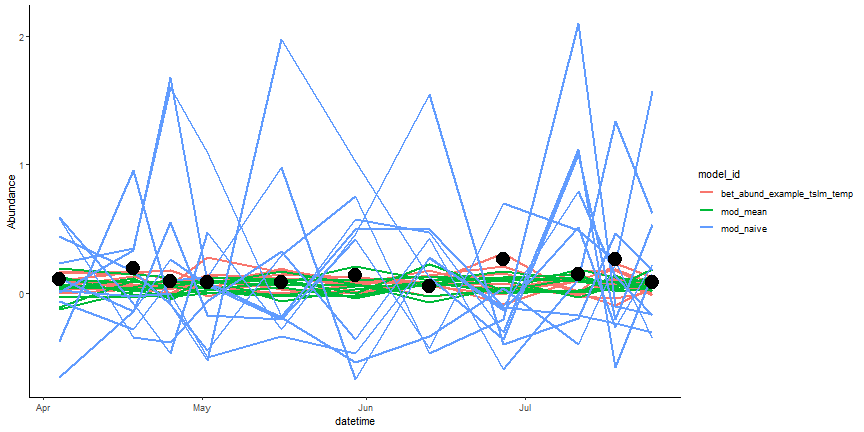
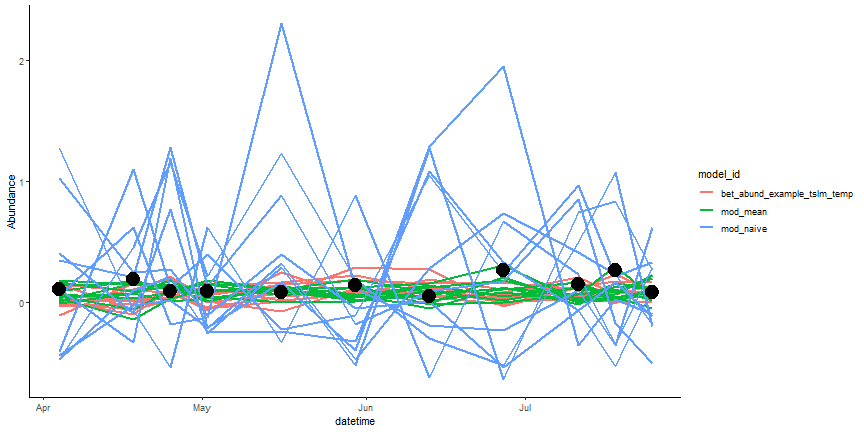
forgot to rerun processing code... oops. also updated the author list as per ES's request.

diff --git a/tutorials/R/biodiversity/beetle-forecasting/NEON_forecast_challenge_beetle_tutorial_ESA2024.html b/tutorials/R/biodiversity/beetle-forecasting/NEON_forecast_challenge_beetle_tutorial_ESA2024.html
@@ -224,7 +224,7 @@ targets &lt;- read_csv(url) %&gt;%
 <p>Let’s take a look at the targets data!</p>
 <pre><code>targets[100:110,]
 
-## # A tibble: 11 × 6
+## # A tibble: 11 x 6
 ##    project_id site_id datetime   duration variable  observation
 ##    &lt;chr&gt;      &lt;chr&gt;   &lt;date&gt;     &lt;chr&gt;    &lt;chr&gt;           &lt;dbl&gt;
 ##  1 neon4cast  OSBS    2017-06-12 P1W      richness       7     
@@ -251,7 +251,7 @@ targets &lt;- read_csv(url) %&gt;%
 <img src="https://raw.githubusercontent.com/NEONScience/NEON-Data-Skills/main/tutorials/R/biodiversity/beetle-forecasting/rfigs/plot targets-1.png" alt="Figure: Beetle targets data at OSBS"  />
 <p class="caption">Figure: Beetle targets data at OSBS</p>
 </div>
-Note that target data are available through 2022. As of the writing of this document, some provisional 2023 data may be available. The beetle data are consistently on a 2-year release lag instead of the usual 1-year release tag for other products, so the 2025 release will include all of the 2022 data but not all of 2023. The full 2023 NEON Ground Beetle dataset will be QCed through 2024 and published as a release with a DOI in January 2025 pending there are no data collection and data processing setbacks. 
+Note that target data are available through 2022. As of the writing of this document, some provisional 2023 data may be available. The beetle data are consistently on a 2-year release lag instead of the usual 1-year release tag for other products, so the 2025 release will include all of the 2022 data but not all of 2023. The full 2022 NEON Ground Beetle data set will be QC'd in 2024 and published as a release with a DOI in January 2025 pending there are no data collection and data processing setbacks. 
 <h3 id="create-the-training-dataset">Create the training dataset</h3>
 <p>We will train our forecast models on target data from the beginning of the dataset until our <code>forecast_startdate</code>, which we set above.</p>
 <pre><code>targets_train &lt;- targets %&gt;%
@@ -392,11 +392,12 @@ mod_fit_candidates &lt;- targets_clim_train %&gt;%
 fabletools::report(mod_fit_candidates)
 
 ## # A tibble: 3 x 15
-##   .model          r_squared adj_r_squared  sigma2 statistic p_value    df log_lik   AIC  AICc   BIC      CV deviance df.residual  rank
-##   &lt;chr&gt;               &lt;dbl&gt;         &lt;dbl&gt;   &lt;dbl&gt;     &lt;dbl&gt;   &lt;dbl&gt; &lt;int&gt;   &lt;dbl&gt; &lt;dbl&gt; &lt;dbl&gt; &lt;dbl&gt;   &lt;dbl&gt;    &lt;dbl&gt;       &lt;int&gt; &lt;int&gt;
-## 1 mod_temp         0.0332         0.0245  0.00416    3.78    0.0544     2    149. -610. -610. -602. 0.00421    0.458         110     2
-## 2 mod_precip       0.000797      -0.00829 0.00430    0.0877  0.768      2    147. -606. -606. -598. 0.00541    0.473         110     2
-## 3 mod_temp_precip  0.0333         0.0156  0.00420    1.88    0.158      3    149. -608. -608. -597. 0.00500    0.458         109     3
+##   .model    r_squared adj_r_squared  sigma2 statistic p_value    df log_lik   AIC  AICc   BIC      CV deviance
+##   &lt;chr&gt;         &lt;dbl&gt;         &lt;dbl&gt;   &lt;dbl&gt;     &lt;dbl&gt;   &lt;dbl&gt; &lt;int&gt;   &lt;dbl&gt; &lt;dbl&gt; &lt;dbl&gt; &lt;dbl&gt;   &lt;dbl&gt;    &lt;dbl&gt;
+## 1 mod_temp   0.0332         0.0245  0.00416    3.78    0.0544     2    149. -610. -610. -602. 0.00421    0.458
+## 2 mod_prec~  0.000797      -0.00829 0.00430    0.0877  0.768      2    147. -606. -606. -598. 0.00541    0.473
+## 3 mod_temp~  0.0333         0.0156  0.00420    1.88    0.158      3    149. -608. -608. -597. 0.00500    0.458
+## # i 2 more variables: df.residual &lt;int&gt;, rank &lt;int&gt;
 </code></pre>
 <p>Now, plot the predicted versus observed abundance data.</p>
 <pre><code># visualize model fit
@@ -513,14 +514,14 @@ fc_best_lm_efi &lt;- fc_best_lm %&gt;%
 <pre><code>head(fc_best_lm_efi)
 
 ## # A tibble: 6 x 10
-##   datetime   site_id parameter model_id                    family   variable  prediction project_id reference_datetime duration
-##   &lt;date&gt;     &lt;chr&gt;   &lt;chr&gt;     &lt;chr&gt;                       &lt;chr&gt;    &lt;chr&gt;          &lt;dbl&gt; &lt;chr&gt;      &lt;chr&gt;              &lt;chr&gt;   
-## 1 2022-01-01 OSBS    1         bet_abund_example_tslm_temp ensemble abundance  -0.0103   neon4cast  2022-01-01         P1W     
-## 2 2022-01-01 OSBS    2         bet_abund_example_tslm_temp ensemble abundance   0.0604   neon4cast  2022-01-01         P1W     
-## 3 2022-01-01 OSBS    3         bet_abund_example_tslm_temp ensemble abundance  -0.0470   neon4cast  2022-01-01         P1W     
-## 4 2022-01-01 OSBS    4         bet_abund_example_tslm_temp ensemble abundance   0.0382   neon4cast  2022-01-01         P1W     
-## 5 2022-01-01 OSBS    5         bet_abund_example_tslm_temp ensemble abundance   0.0154   neon4cast  2022-01-01         P1W     
-## 6 2022-01-01 OSBS    6         bet_abund_example_tslm_temp ensemble abundance   0.000735 neon4cast  2022-01-01         P1W
+##   datetime   site_id parameter model_id      family variable prediction project_id reference_datetime duration
+##   &lt;date&gt;     &lt;chr&gt;   &lt;chr&gt;     &lt;chr&gt;         &lt;chr&gt;  &lt;chr&gt;         &lt;dbl&gt; &lt;chr&gt;      &lt;chr&gt;              &lt;chr&gt;   
+## 1 2022-01-01 OSBS    1         bet_abund_ex~ ensem~ abundan~     0.0557 neon4cast  2022-01-01         P1W     
+## 2 2022-01-01 OSBS    2         bet_abund_ex~ ensem~ abundan~     0.118  neon4cast  2022-01-01         P1W     
+## 3 2022-01-01 OSBS    3         bet_abund_ex~ ensem~ abundan~     0.0680 neon4cast  2022-01-01         P1W     
+## 4 2022-01-01 OSBS    4         bet_abund_ex~ ensem~ abundan~     0.0152 neon4cast  2022-01-01         P1W     
+## 5 2022-01-01 OSBS    5         bet_abund_ex~ ensem~ abundan~     0.0648 neon4cast  2022-01-01         P1W     
+## 6 2022-01-01 OSBS    6         bet_abund_ex~ ensem~ abundan~     0.0167 neon4cast  2022-01-01         P1W
 
 
 # visualize the EFI-formatted submission
@@ -676,15 +677,16 @@ mod_scores &lt;- score(
 head(mod_scores)
 
 ## # A tibble: 6 x 17
-##   model_id    reference_datetime site_id datetime   family variable observation   crps   logs   mean median     sd quantile97.5 quantile02.5
-##   &lt;chr&gt;       &lt;chr&gt;              &lt;chr&gt;   &lt;date&gt;     &lt;chr&gt;  &lt;chr&gt;          &lt;dbl&gt;  &lt;dbl&gt;  &lt;dbl&gt;  &lt;dbl&gt;  &lt;dbl&gt;  &lt;dbl&gt;        &lt;dbl&gt;        &lt;dbl&gt;
-## 1 bet_abund_~ 2022-01-01         OSBS    2022-04-04 sample abundan~      0.102  0.0146 -1.90  0.0823 0.0964 0.0545        0.161     0.000665
-## 2 bet_abund_~ 2022-01-01         OSBS    2022-04-18 sample abundan~      0.188  0.0745 -0.937 0.0822 0.0583 0.0602        0.160     0.0210  
-## 3 bet_abund_~ 2022-01-01         OSBS    2022-04-25 sample abundan~      0.0877 0.0177 -1.71  0.0663 0.0675 0.0569        0.159    -0.00610 
-## 4 bet_abund_~ 2022-01-01         OSBS    2022-05-02 sample abundan~      0.0857 0.0136 -1.81  0.0939 0.0805 0.0814        0.250    -0.0114  
-## 5 bet_abund_~ 2022-01-01         OSBS    2022-05-16 sample abundan~      0.0786 0.0282 -1.23  0.0950 0.112  0.0769        0.188    -0.0133  
-## 6 bet_abund_~ 2022-01-01         OSBS    2022-05-30 sample abundan~      0.133  0.0570 -0.825 0.0539 0.0652 0.0429        0.112    -0.00627 
-## # i 3 more variables: quantile90 &lt;dbl&gt;, quantile10 &lt;dbl&gt;, horizon &lt;drtn&gt;
+##   model_id      reference_datetime site_id datetime   family variable observation   crps   logs   mean  median
+##   &lt;chr&gt;         &lt;chr&gt;              &lt;chr&gt;   &lt;date&gt;     &lt;chr&gt;  &lt;chr&gt;          &lt;dbl&gt;  &lt;dbl&gt;  &lt;dbl&gt;  &lt;dbl&gt;   &lt;dbl&gt;
+## 1 bet_abund_ex~ 2022-01-01         OSBS    2022-04-04 sample abundan~      0.102  0.0515 -0.928 0.0300 0.00424
+## 2 bet_abund_ex~ 2022-01-01         OSBS    2022-04-18 sample abundan~      0.188  0.121  -0.125 0.0212 0.00923
+## 3 bet_abund_ex~ 2022-01-01         OSBS    2022-04-25 sample abundan~      0.0877 0.0159 -1.85  0.105  0.104  
+## 4 bet_abund_ex~ 2022-01-01         OSBS    2022-05-02 sample abundan~      0.0857 0.0339 -1.13  0.0392 0.0263 
+## 5 bet_abund_ex~ 2022-01-01         OSBS    2022-05-16 sample abundan~      0.0786 0.0207 -1.36  0.0754 0.0639 
+## 6 bet_abund_ex~ 2022-01-01         OSBS    2022-05-30 sample abundan~      0.133  0.0319 -1.18  0.116  0.0835 
+## # i 6 more variables: sd &lt;dbl&gt;, quantile97.5 &lt;dbl&gt;, quantile02.5 &lt;dbl&gt;, quantile90 &lt;dbl&gt;, quantile10 &lt;dbl&gt;,
+## #   horizon &lt;drtn&gt;
 </code></pre>
 <p>Are these scores better than our null models? Here, we will score the <code>mod_mean</code> and <code>mod_naive</code> models, and combine the null model scores with the scores for our <code>best_lm</code> forecast above. Then we can compare.</p>
 <pre><code># get scores for the mean and naive models

diff --git a/tutorials/R/biodiversity/beetle-forecasting/NEON_forecast_challenge_beetle_tutorial_ESA2024.md b/tutorials/R/biodiversity/beetle-forecasting/NEON_forecast_challenge_beetle_tutorial_ESA2024.md
@@ -2,8 +2,8 @@
 title: "Forecast Beetle Richness and Abundance and Submit Forecasts to the NEON Ecological Forecast Challenge"
 syncID: 2bed8b22086544ae8505eee591054b0a
 description: Generate forecasts of beetle richness and abundance that are submitted to the Ecological Forecasting Initiative NEON forecasting challenge.
-authors: Eric R. Sokol, Ryan McClure, Allison Gerken
-contributors: Kelsey Yule, Juniper Simonis, Carl Boettiger, Sydne Record, Freya Olson, Vihanga Gunadasa, Meghan Beatty
+authors: Eric R. Sokol, Meghan Beatty, Hashini Gunadasa, Allison Gerken, Khum Magar, Ryan McClure, Glenda Wardle 
+contributors: Juniper Simonis, Carl Boettiger, Sydne Record,  Vihanga Gunadasa
 estimatedTime: 2 Hours
 packagesLibraries: tidyverse, lubridate, tsibble, fable, fabletools, remotes, neon4cast
 topics: ecological-forecasting, data-analysis, organisms, data-viz
@@ -204,7 +204,7 @@ Let's take a look at the targets data!
 
     targets[100:110,]
 
-    ## # A tibble: 11 × 6
+    ## # A tibble: 11 x 6
     ##    project_id site_id datetime   duration variable  observation
     ##    <chr>      <chr>   <date>     <chr>    <chr>           <dbl>
     ##  1 neon4cast  OSBS    2017-06-12 P1W      richness       7     
@@ -232,7 +232,7 @@ It is good practice to examine the dataset before proceeding with analysis:
 <img src="https://raw.githubusercontent.com/NEONScience/NEON-Data-Skills/main/tutorials/R/biodiversity/beetle-forecasting/rfigs/plot targets-1.png" alt="Figure: Beetle targets data at OSBS"  />
 <p class="caption">Figure: Beetle targets data at OSBS</p>
 </div>
-Note that target data are available through 2022. As of the writing of this document, some provisional 2023 data may be available. The beetle data are consistently on a 2-year release lag instead of the usual 1-year release tag for other products, so the 2025 release will include all of the 2022 data but not all of 2023. The full 2023 NEON Ground Beetle dataset will be QCed through 2024 and published as a release with a DOI in January 2025 pending there are no data collection and data processing setbacks. 
+Note that target data are available through 2022. As of the writing of this document, some provisional 2023 data may be available. The beetle data are consistently on a 2-year release lag instead of the usual 1-year release tag for other products, so the 2025 release will include all of the 2022 data but not all of 2023. The full 2022 NEON Ground Beetle data set will be QC'd in 2024 and published as a release with a DOI in January 2025 pending there are no data collection and data processing setbacks. 
 
 ### Create the training dataset
 
@@ -394,11 +394,12 @@ Next, specify and fit simple linear regression models using `fable::TSLM()`, and
     fabletools::report(mod_fit_candidates)
 
     ## # A tibble: 3 x 15
-    ##   .model          r_squared adj_r_squared  sigma2 statistic p_value    df log_lik   AIC  AICc   BIC      CV deviance df.residual  rank
-    ##   <chr>               <dbl>         <dbl>   <dbl>     <dbl>   <dbl> <int>   <dbl> <dbl> <dbl> <dbl>   <dbl>    <dbl>       <int> <int>
-    ## 1 mod_temp         0.0332         0.0245  0.00416    3.78    0.0544     2    149. -610. -610. -602. 0.00421    0.458         110     2
-    ## 2 mod_precip       0.000797      -0.00829 0.00430    0.0877  0.768      2    147. -606. -606. -598. 0.00541    0.473         110     2
-    ## 3 mod_temp_precip  0.0333         0.0156  0.00420    1.88    0.158      3    149. -608. -608. -597. 0.00500    0.458         109     3
+    ##   .model    r_squared adj_r_squared  sigma2 statistic p_value    df log_lik   AIC  AICc   BIC      CV deviance
+    ##   <chr>         <dbl>         <dbl>   <dbl>     <dbl>   <dbl> <int>   <dbl> <dbl> <dbl> <dbl>   <dbl>    <dbl>
+    ## 1 mod_temp   0.0332         0.0245  0.00416    3.78    0.0544     2    149. -610. -610. -602. 0.00421    0.458
+    ## 2 mod_prec~  0.000797      -0.00829 0.00430    0.0877  0.768      2    147. -606. -606. -598. 0.00541    0.473
+    ## 3 mod_temp~  0.0333         0.0156  0.00420    1.88    0.158      3    149. -608. -608. -597. 0.00500    0.458
+    ## # i 2 more variables: df.residual <int>, rank <int>
 
 Now, plot the predicted versus observed abundance data.
 
@@ -513,14 +514,14 @@ What does the content of the submission look like?
     head(fc_best_lm_efi)
 
     ## # A tibble: 6 x 10
-    ##   datetime   site_id parameter model_id                    family   variable  prediction project_id reference_datetime duration
-    ##   <date>     <chr>   <chr>     <chr>                       <chr>    <chr>          <dbl> <chr>      <chr>              <chr>   
-    ## 1 2022-01-01 OSBS    1         bet_abund_example_tslm_temp ensemble abundance  -0.0103   neon4cast  2022-01-01         P1W     
-    ## 2 2022-01-01 OSBS    2         bet_abund_example_tslm_temp ensemble abundance   0.0604   neon4cast  2022-01-01         P1W     
-    ## 3 2022-01-01 OSBS    3         bet_abund_example_tslm_temp ensemble abundance  -0.0470   neon4cast  2022-01-01         P1W     
-    ## 4 2022-01-01 OSBS    4         bet_abund_example_tslm_temp ensemble abundance   0.0382   neon4cast  2022-01-01         P1W     
-    ## 5 2022-01-01 OSBS    5         bet_abund_example_tslm_temp ensemble abundance   0.0154   neon4cast  2022-01-01         P1W     
-    ## 6 2022-01-01 OSBS    6         bet_abund_example_tslm_temp ensemble abundance   0.000735 neon4cast  2022-01-01         P1W
+    ##   datetime   site_id parameter model_id      family variable prediction project_id reference_datetime duration
+    ##   <date>     <chr>   <chr>     <chr>         <chr>  <chr>         <dbl> <chr>      <chr>              <chr>   
+    ## 1 2022-01-01 OSBS    1         bet_abund_ex~ ensem~ abundan~     0.0557 neon4cast  2022-01-01         P1W     
+    ## 2 2022-01-01 OSBS    2         bet_abund_ex~ ensem~ abundan~     0.118  neon4cast  2022-01-01         P1W     
+    ## 3 2022-01-01 OSBS    3         bet_abund_ex~ ensem~ abundan~     0.0680 neon4cast  2022-01-01         P1W     
+    ## 4 2022-01-01 OSBS    4         bet_abund_ex~ ensem~ abundan~     0.0152 neon4cast  2022-01-01         P1W     
+    ## 5 2022-01-01 OSBS    5         bet_abund_ex~ ensem~ abundan~     0.0648 neon4cast  2022-01-01         P1W     
+    ## 6 2022-01-01 OSBS    6         bet_abund_ex~ ensem~ abundan~     0.0167 neon4cast  2022-01-01         P1W
 
 
     # visualize the EFI-formatted submission
@@ -685,15 +686,16 @@ For immediate feedback, we can use the targets data from 2022 to score our forec
     head(mod_scores)
 
     ## # A tibble: 6 x 17
-    ##   model_id    reference_datetime site_id datetime   family variable observation   crps   logs   mean median     sd quantile97.5 quantile02.5
-    ##   <chr>       <chr>              <chr>   <date>     <chr>  <chr>          <dbl>  <dbl>  <dbl>  <dbl>  <dbl>  <dbl>        <dbl>        <dbl>
-    ## 1 bet_abund_~ 2022-01-01         OSBS    2022-04-04 sample abundan~      0.102  0.0146 -1.90  0.0823 0.0964 0.0545        0.161     0.000665
-    ## 2 bet_abund_~ 2022-01-01         OSBS    2022-04-18 sample abundan~      0.188  0.0745 -0.937 0.0822 0.0583 0.0602        0.160     0.0210  
-    ## 3 bet_abund_~ 2022-01-01         OSBS    2022-04-25 sample abundan~      0.0877 0.0177 -1.71  0.0663 0.0675 0.0569        0.159    -0.00610 
-    ## 4 bet_abund_~ 2022-01-01         OSBS    2022-05-02 sample abundan~      0.0857 0.0136 -1.81  0.0939 0.0805 0.0814        0.250    -0.0114  
-    ## 5 bet_abund_~ 2022-01-01         OSBS    2022-05-16 sample abundan~      0.0786 0.0282 -1.23  0.0950 0.112  0.0769        0.188    -0.0133  
-    ## 6 bet_abund_~ 2022-01-01         OSBS    2022-05-30 sample abundan~      0.133  0.0570 -0.825 0.0539 0.0652 0.0429        0.112    -0.00627 
-    ## # i 3 more variables: quantile90 <dbl>, quantile10 <dbl>, horizon <drtn>
+    ##   model_id      reference_datetime site_id datetime   family variable observation   crps   logs   mean  median
+    ##   <chr>         <chr>              <chr>   <date>     <chr>  <chr>          <dbl>  <dbl>  <dbl>  <dbl>   <dbl>
+    ## 1 bet_abund_ex~ 2022-01-01         OSBS    2022-04-04 sample abundan~      0.102  0.0515 -0.928 0.0300 0.00424
+    ## 2 bet_abund_ex~ 2022-01-01         OSBS    2022-04-18 sample abundan~      0.188  0.121  -0.125 0.0212 0.00923
+    ## 3 bet_abund_ex~ 2022-01-01         OSBS    2022-04-25 sample abundan~      0.0877 0.0159 -1.85  0.105  0.104  
+    ## 4 bet_abund_ex~ 2022-01-01         OSBS    2022-05-02 sample abundan~      0.0857 0.0339 -1.13  0.0392 0.0263 
+    ## 5 bet_abund_ex~ 2022-01-01         OSBS    2022-05-16 sample abundan~      0.0786 0.0207 -1.36  0.0754 0.0639 
+    ## 6 bet_abund_ex~ 2022-01-01         OSBS    2022-05-30 sample abundan~      0.133  0.0319 -1.18  0.116  0.0835 
+    ## # i 6 more variables: sd <dbl>, quantile97.5 <dbl>, quantile02.5 <dbl>, quantile90 <dbl>, quantile10 <dbl>,
+    ## #   horizon <drtn>
 
 Are these scores better than our null models? Here, we will score the `mod_mean` and `mod_naive` models, and combine the null model scores with the scores for our `best_lm` forecast above. Then we can compare. 
 
